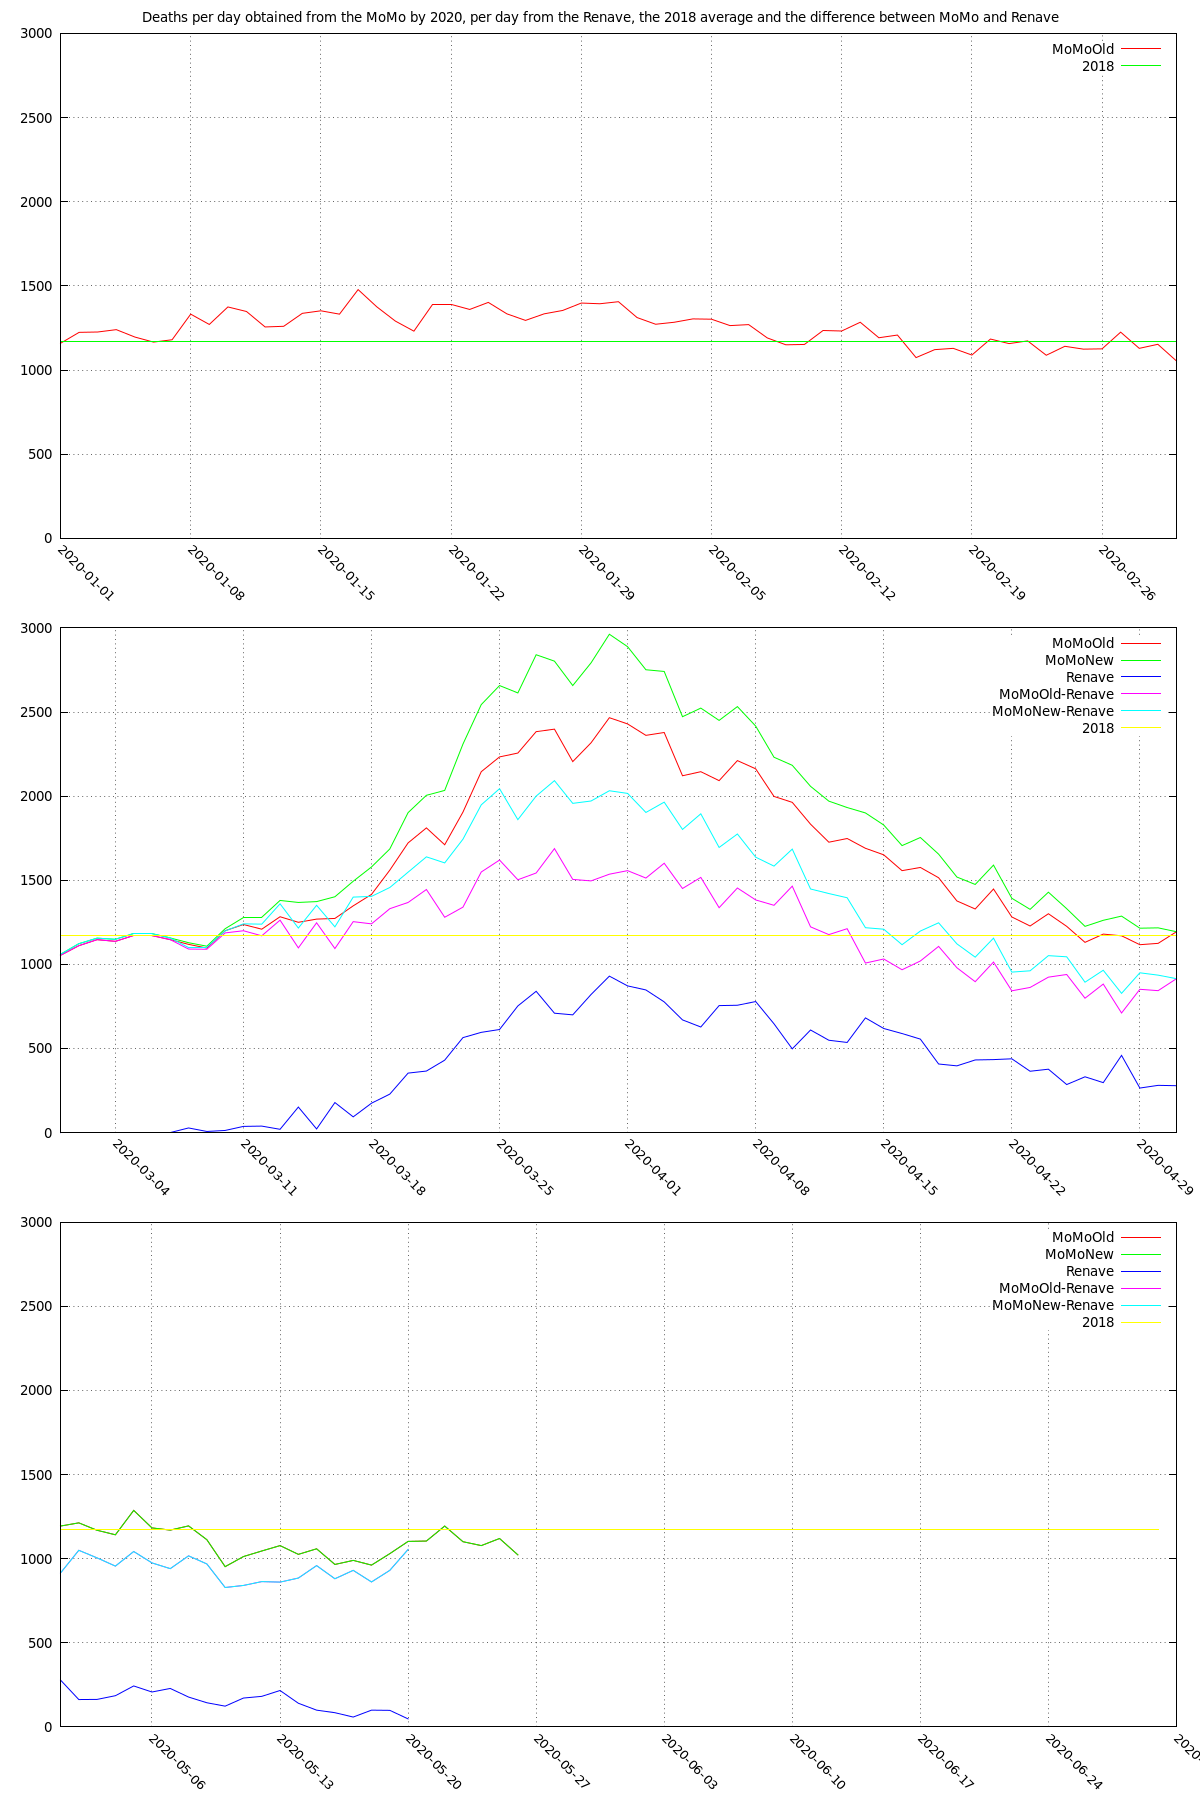
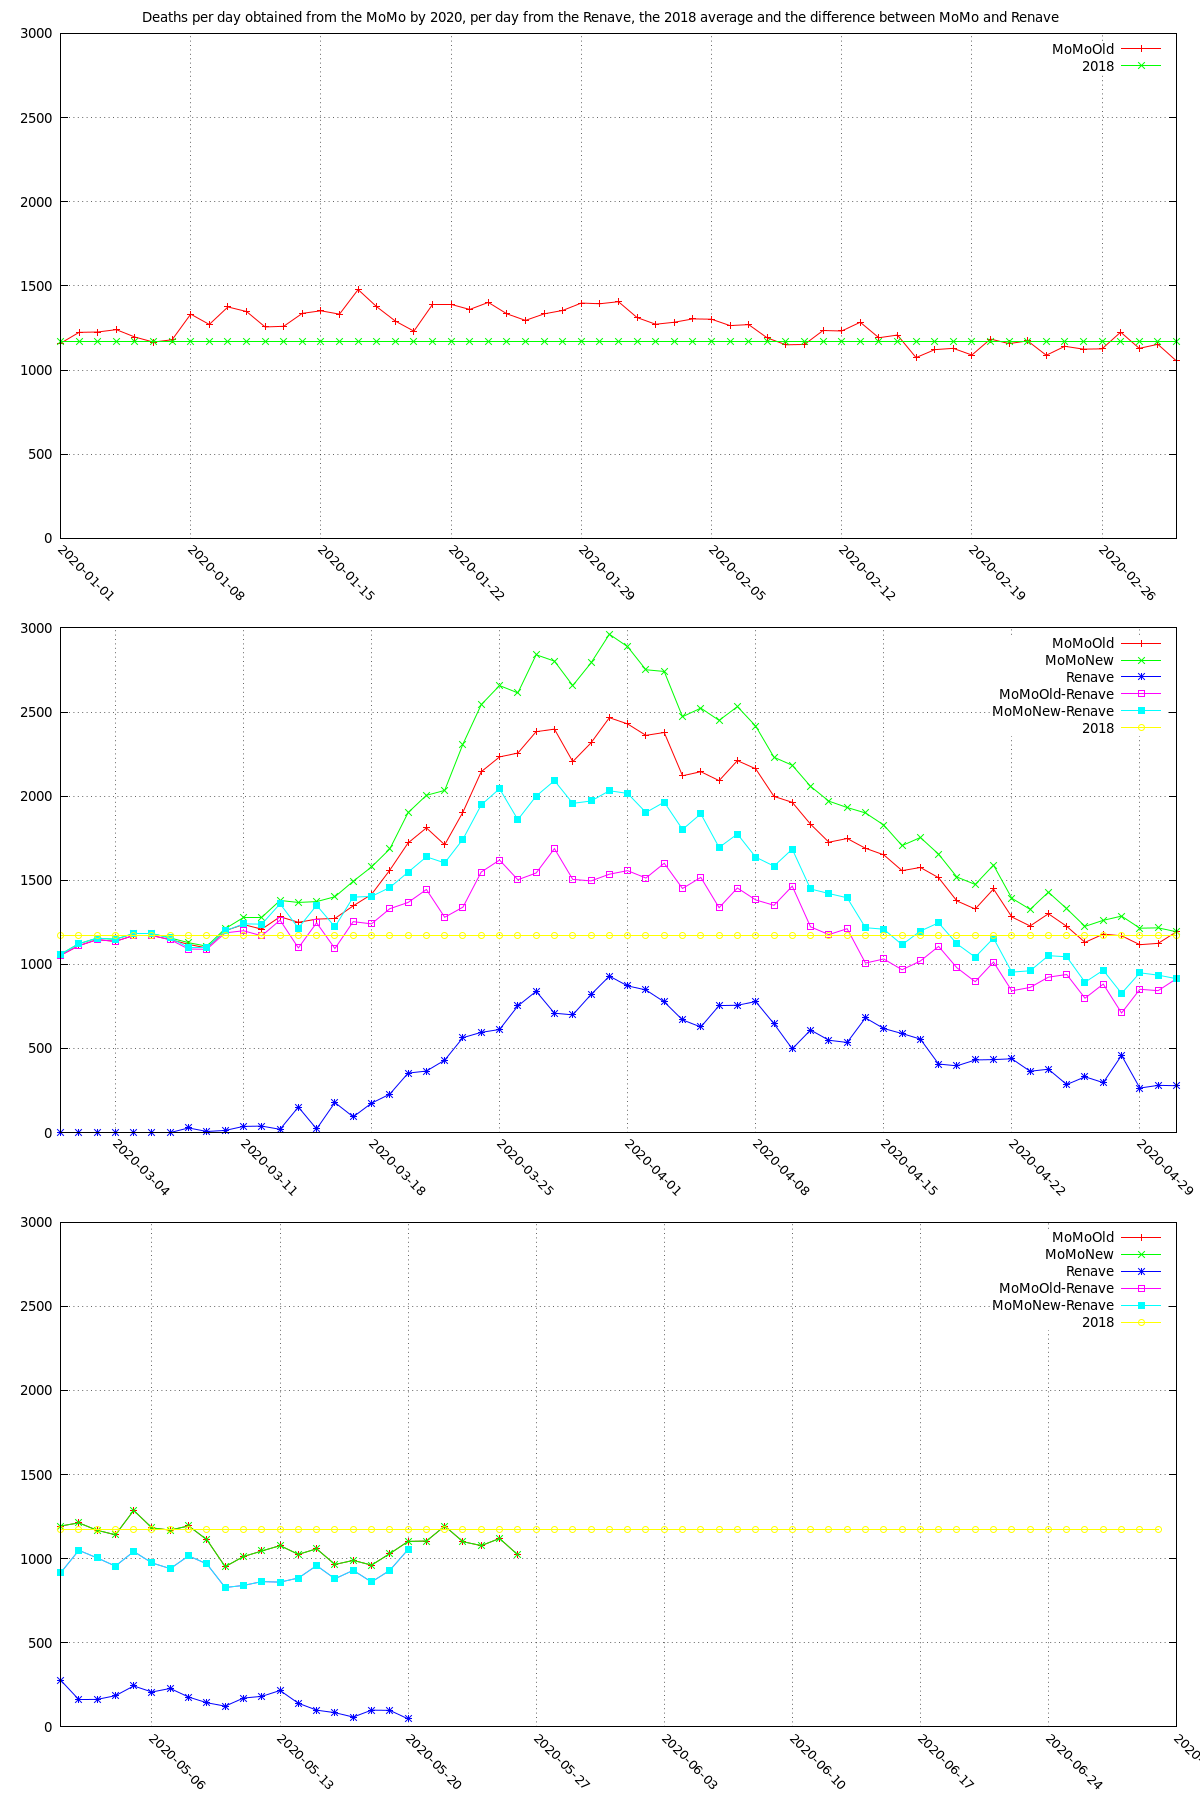
Millores i correccio d'errors

Changed region(s): [[0.185, 0.4978, 0.3083, 0.5289], [0.1542, 0.84, 0.185, 0.8711]]

diff --git a/index.es.html b/index.es.html
@@ -21,7 +21,7 @@ a { color:#fff; }
 <h3 class='lang es'><a href='index.es.html'>ES</a></h4>
 <h3 class='lang ca'><a href='index.ca.html'>CA</a></h4>
 <h3 class='norm es'>Información útil de España sobre el impacto de covid-19: gráficos de defunciones por año, origen de los datos, acumulados diarios, por edad, por comunidad autónoma y más</h3>
-<h3 class='warn'>Atención: el 27 de mayo del año 2020 se corrigieron los tados del MoMo, para poder observar esta corrección, utilizo MoMoOld para los datos anteriores a la corrección de los meses de Marzo y Abril del 2020 y MoMoNew para los últimos datos oficiales</h3>
+<h3 class='warn'>Atención: el 27 de mayo del año 2020 se corrigieron los datos del MoMo, para poder observar esta corrección, utilizo MoMoOld para los datos anteriores a la corrección de los meses de Marzo y Abril del 2020 y MoMoNew para los últimos datos oficiales</h3>
 <a name='plot1'></a>
 <h3>Defunciones por año y mes (sólo años donde algún mes ha superado los 40k muertos, los datos del 2020 son del MoMo y el resto son del INE)</h3>
 <img src='output/plot1es.png'/>

diff --git a/program.php b/program.php
@@ -762,7 +762,7 @@ $textos=array(
 	),
 	"momoold"=>array(
 		"ca"=>"Atenció: el 27 de maig de l'any 2020 es van corregir les dades del MoMo, per poder observar aquesta correcció faig servir MoMoOld per les dades anteriors a la correcció dels mesos de Març i Abril de l'any 2020 i MoMoNew per les darreres dades oficials",
-		"es"=>"Atención: el 27 de mayo del año 2020 se corrigieron los tados del MoMo, para poder observar esta corrección, utilizo MoMoOld para los datos anteriores a la corrección de los meses de Marzo y Abril del 2020 y MoMoNew para los últimos datos oficiales",
+		"es"=>"Atención: el 27 de mayo del año 2020 se corrigieron los datos del MoMo, para poder observar esta corrección, utilizo MoMoOld para los datos anteriores a la corrección de los meses de Marzo y Abril del 2020 y MoMoNew para los últimos datos oficiales",
 		"en"=>"Attention: on May 27, 2020 the MoMo data was corrected, in order to observe this correction, I'm using MoMoOld to see the previously data to the correction for the months of March and April 2020 and MoMoNew to see the latest oficial data",
 	),
 	"escala"=>array(
@@ -939,9 +939,9 @@ if(!file_exists("output/plot3${lang}.png")) {
 		"set xtic rotate by -45 scale 0",
 		"set datafile separator ';'",
 		"set xtics '2020-01-01',86400*7,'2020-07-01'",
-		"plot ['2020-01-01':'2020-03-01'] 'middle/plot3${lang}.csv' using 1:2 w l ti col, '' using 1:7 w l ti col",
-		"plot ['2020-03-01':'2020-05-01'] 'middle/plot3${lang}.csv' using 1:2 w l ti col, '' using 1:3 w l ti col, '' using 1:4 w l ti col, '' using 1:5 w l ti col, '' using 1:6 w l ti col, '' using 1:7 w l ti col",
-		"plot ['2020-05-01':'2020-07-01'] 'middle/plot3${lang}.csv' using 1:2 w l ti col, '' using 1:3 w l ti col, '' using 1:4 w l ti col, '' using 1:5 w l ti col, '' using 1:6 w l ti col, '' using 1:7 w l ti col",
+		"plot ['2020-01-01':'2020-03-01'] 'middle/plot3${lang}.csv' using 1:2 w lp ti col, '' using 1:7 w lp ti col",
+		"plot ['2020-03-01':'2020-05-01'] 'middle/plot3${lang}.csv' using 1:2 w lp ti col, '' using 1:3 w lp ti col, '' using 1:4 w lp ti col, '' using 1:5 w lp ti col, '' using 1:6 w lp ti col, '' using 1:7 w lp ti col",
+		"plot ['2020-05-01':'2020-07-01'] 'middle/plot3${lang}.csv' using 1:2 w lp ti col, '' using 1:3 w lp ti col, '' using 1:4 w lp ti col, '' using 1:5 w lp ti col, '' using 1:6 w lp ti col, '' using 1:7 w lp ti col",
 		"unset multiplot"
 	))."\n";
 	file_put_contents("middle/plot3${lang}.gnu",$gnuplot);
